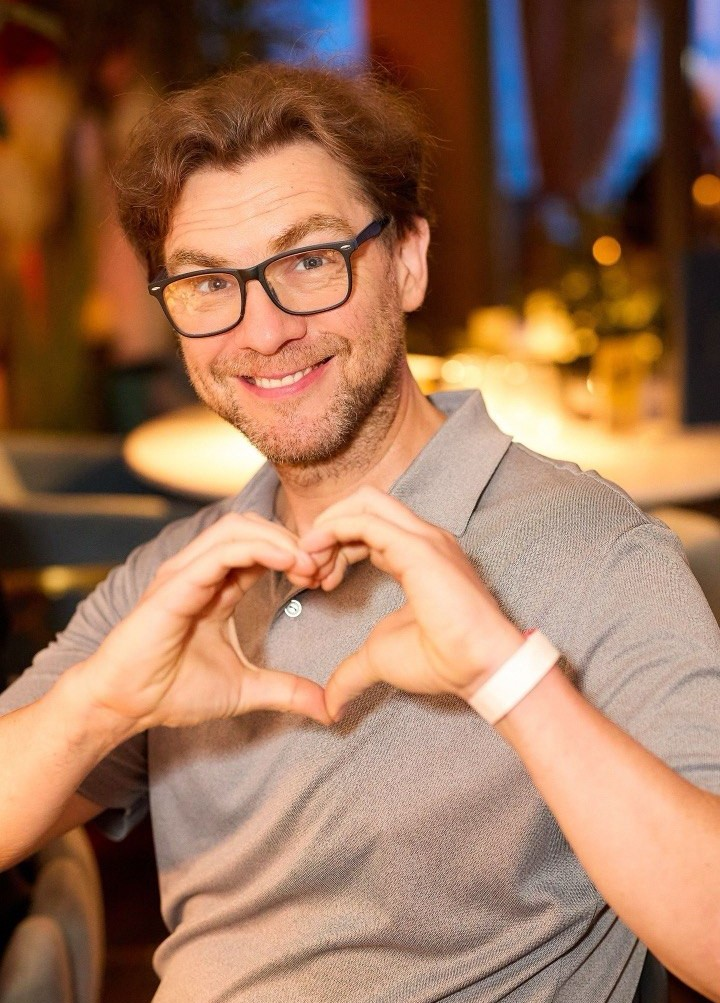
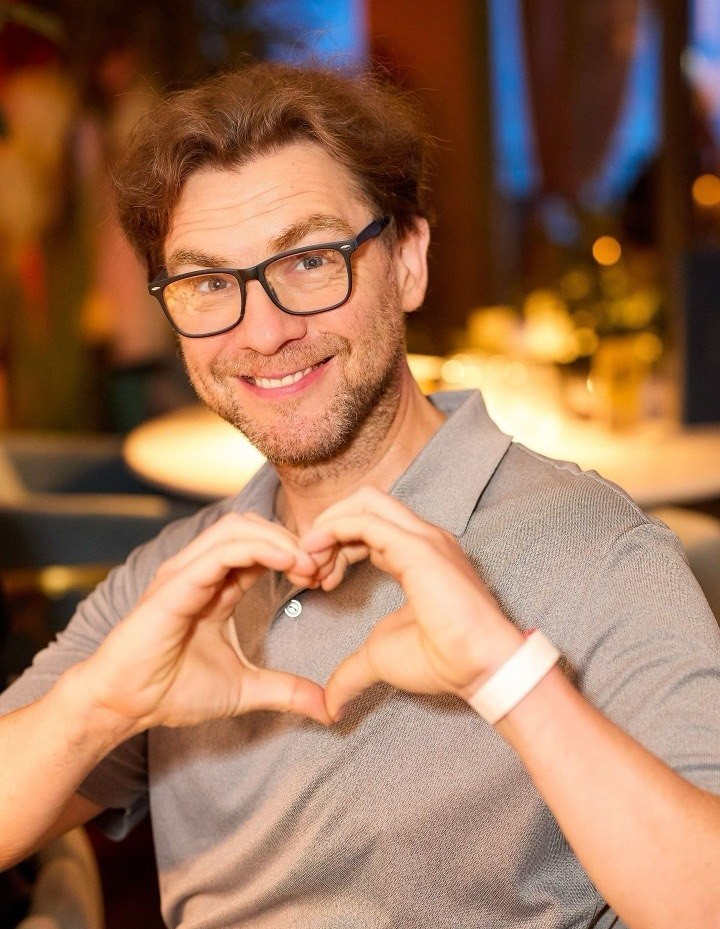
Add Ruslan and Tatsiana photos to Leadership
Updates the president photo too (new source JPEG from the user). All three
officer cards now render real headshots in the 4:5 portrait slot.

diff --git a/pages/about.tsx b/pages/about.tsx
@@ -30,8 +30,8 @@ const values = [
 
 const officers: { name: string; role: string; photo?: string }[] = [
   { name: 'Georgiy Sayapin', role: 'President', photo: '/leadership/georgiy-sayapin.jpg' },
-  { name: 'Ruslan Zaichkou', role: 'Secretary' },
-  { name: 'Tatsiana Astashonak', role: 'Treasurer' },
+  { name: 'Ruslan Zaichkou', role: 'Secretary', photo: '/leadership/ruslan-zaichkou.jpg' },
+  { name: 'Tatsiana Astashonak', role: 'Treasurer', photo: '/leadership/tatsiana-astashonak.jpg' },
 ];
 
 export default function About() {
